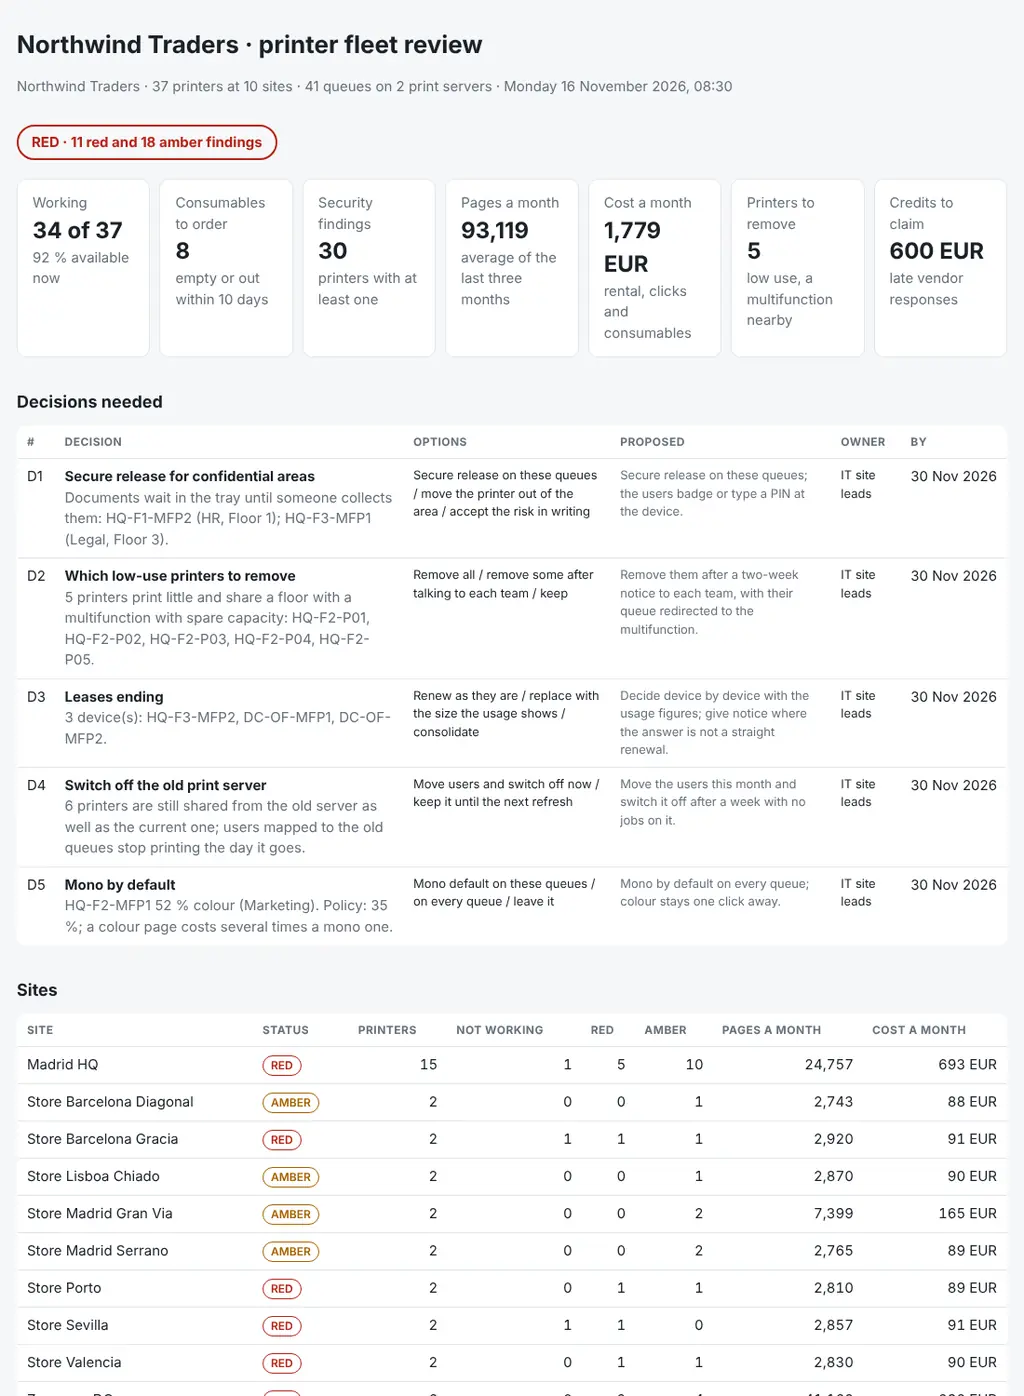
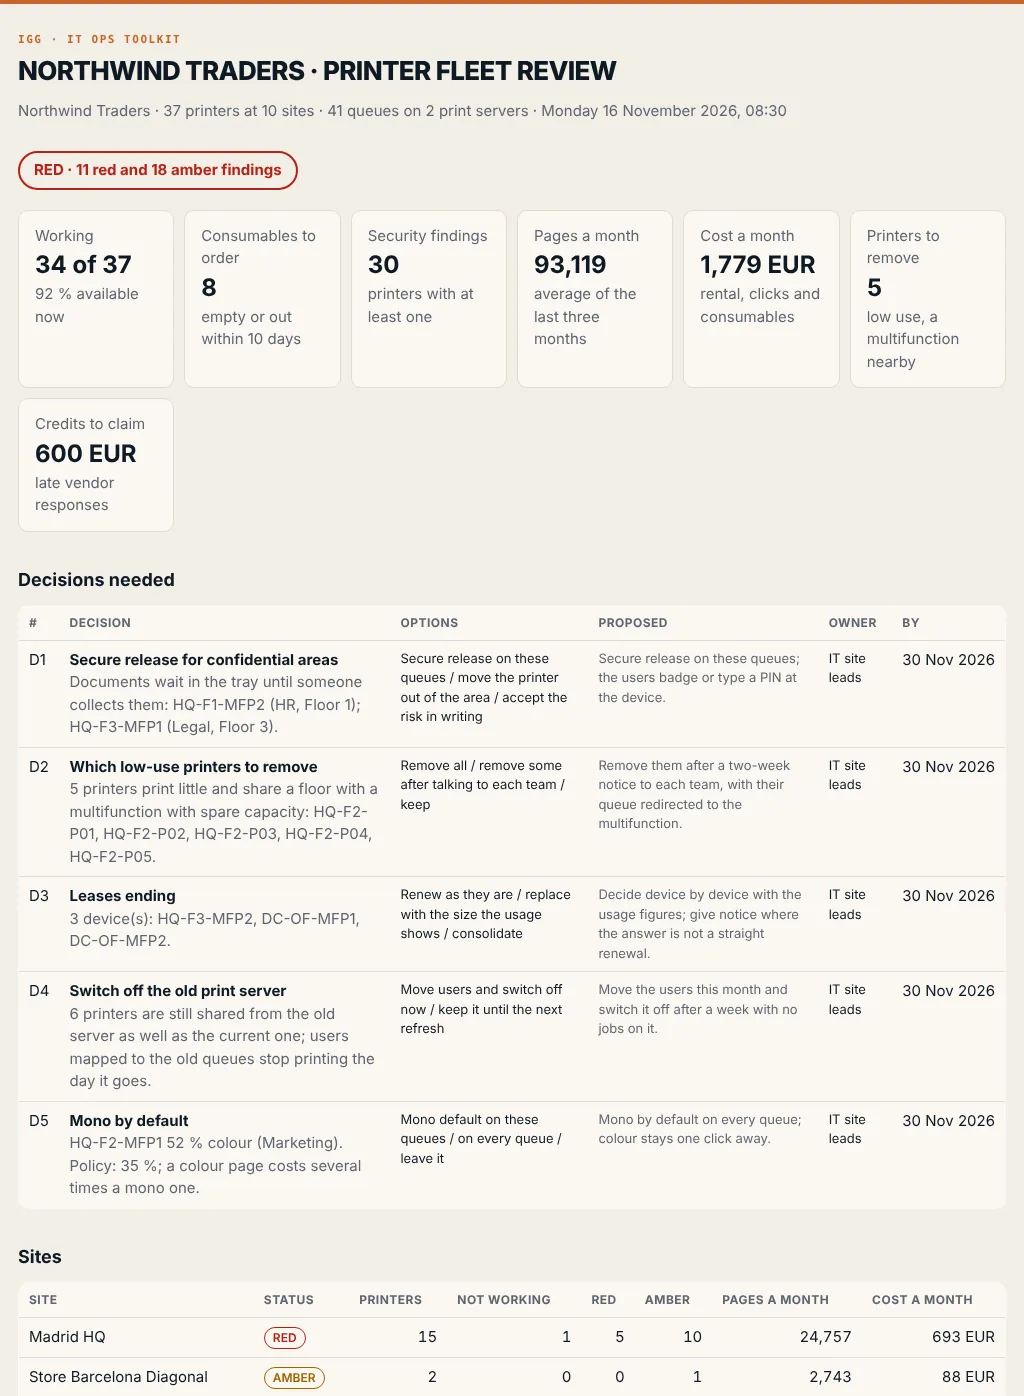
Report: IGG colours (paper, ink and the orange accent) and a new screenshot

diff --git a/printfleet/report.py b/printfleet/report.py
@@ -177,10 +177,10 @@ def pack_md(d: Data, rv: dict, title: str) -> str:
 # ---------------------------------------------------------------- html
 
 CSS = """
-:root{--bg:#f6f7f8;--card:#fff;--ink:#1b2128;--muted:#66717c;--line:#e2e5e9;--ok:#1e7a4c;--warn:#a46200;--bad:#b42318;--track:#e9ecef}
-@media (prefers-color-scheme:dark){:root{--bg:#13171b;--card:#1b2127;--ink:#e7eaee;--muted:#9aa5b0;--line:#2b333b;--ok:#4cc38a;
+:root{--bg:#f2eee6;--card:#fbf8f3;--ink:#0e1a24;--muted:#5d6670;--line:#e2dccf;--ok:#1e7a4c;--warn:#a46200;--bad:#b42318;--track:#e8e2d6}
+@media (prefers-color-scheme:dark){:root{--bg:#0e1a24;--card:#142331;--ink:#f2eee6;--muted:#a9b3bb;--line:#24364a;--ok:#4cc38a;
 --warn:#f0a83a;--bad:#f2685c;--track:#2b333b}}
-*{box-sizing:border-box}body{margin:0;background:var(--bg);color:var(--ink);font:15px/1.5 system-ui,-apple-system,Segoe UI,sans-serif}
+*{box-sizing:border-box}body{border-top:4px solid #c4672b}h1{font-weight:800;letter-spacing:-.025em;text-transform:uppercase;line-height:1.05}h1::before{content:"IGG · IT Ops toolkit";display:block;font:600 11px/1.4 ui-monospace,SFMono-Regular,Menlo,monospace;letter-spacing:.14em;text-transform:uppercase;color:#c4672b;margin-bottom:10px}body{margin:0;background:var(--bg);color:var(--ink);font:15px/1.5 system-ui,-apple-system,Segoe UI,sans-serif}
 main{max-width:1100px;margin:0 auto;padding:28px 18px 60px}h1{font-size:26px;margin:0 0 4px}h2{font-size:18px;margin:34px 0 12px}
 .muted{color:var(--muted)}.tiles{display:grid;grid-template-columns:repeat(auto-fit,minmax(140px,1fr));gap:10px;margin-top:20px}
 .tile{background:var(--card);border:1px solid var(--line);border-radius:10px;padding:14px 16px}.tile b{display:block;font-size:24px}
